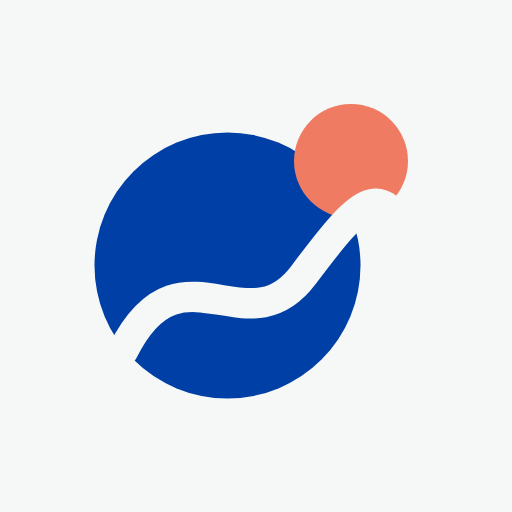
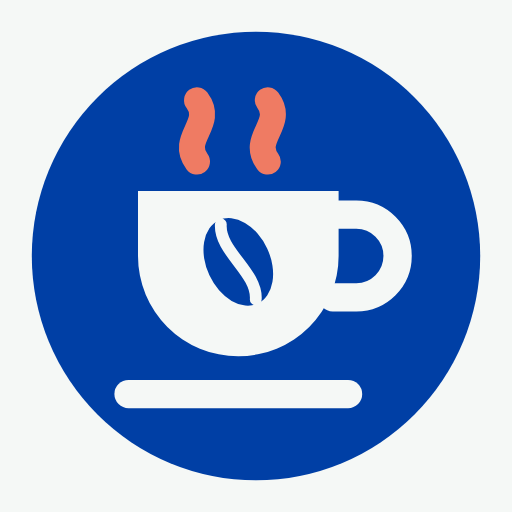
Add files via upload

diff --git a/index.html b/index.html
@@ -157,9 +157,9 @@
 <script src="config.js"></script>
 <script src="https://cdnjs.cloudflare.com/ajax/libs/qrcodejs/1.0.0/qrcode.min.js"></script>
 <script>
-var APP_VERZIA = '3.9';
+var APP_VERZIA = '4.1';
 var API_URL = String(window.KAVOVY_FOND_API_URL || '').trim(); // nastavuje sa v súbore config.js
-var INIT = (function () { var q = new URLSearchParams(location.search); return { token: (q.get('t') || '').replace(/[^A-Za-z0-9]/g, ''), admin: q.has('admin') }; })();
+var INIT = (function () { var q = new URLSearchParams(location.search); return { token: (q.get('t') || '').replace(/[^A-Za-z0-9]/g, ''), admin: q.has('admin'), salka: q.has('salka') }; })();
 var S = { token: '', clen: null, pin: '', admin: null, mesiac: '' };
 
 // ---------- helpers ----------
@@ -202,8 +202,14 @@ function modal(html) { $('modal').innerHTML = html ? '<div class="modal-bg" oncl
 var ART = 0;
 /** Logo: abstraktná značka (modrý kruh, koralový bod, vlnovka). */
 function mark() {
-  return '<svg viewBox="0 0 40 40" aria-hidden="true"><circle cx="17" cy="21" r="14" fill="#003fa5"/><circle cx="30" cy="10" r="6" fill="#ef7b63"/>' +
-    '<path d="M6 30 C12 18 19 30 25 22 S33 12 36 18" fill="none" stroke="#f5f8f6" stroke-width="3.2" stroke-linecap="round"/></svg>';
+  return '<svg viewBox="0 0 40 40" aria-hidden="true">' +
+    '<path d="M14 11 C12 8.5 16 7 14 4" fill="none" stroke="#ef7b63" stroke-width="2.6" stroke-linecap="round"/>' +
+    '<path d="M21 11 C19 8.5 23 7 21 4" fill="none" stroke="#ef7b63" stroke-width="2.6" stroke-linecap="round"/>' +
+    '<path d="M6 14 H29 V21 A11.5 11.5 0 0 1 17.5 32.5 A11.5 11.5 0 0 1 6 21 Z" style="fill:var(--brand)"/>' +
+    '<path d="M29 16.5 H31 A4.5 4.5 0 0 1 31 25.5 H28" fill="none" style="stroke:var(--brand)" stroke-width="3" stroke-linecap="round"/>' +
+    '<rect x="3" y="34" width="29" height="3" rx="1.5" style="fill:var(--fg)"/>' +
+    '<g transform="rotate(-25 17.5 22)"><ellipse cx="17.5" cy="22" rx="3.6" ry="5.2" fill="#f5f8f6"/>' +
+    '<path d="M17.5 17.3 C16 20 19 24 17.5 26.7" fill="none" style="stroke:var(--brand)" stroke-width="1.3" stroke-linecap="round"/></g></svg>';
 }
 /** Abstraktná koláž – zrnitá koralová guľa, navy plocha, modrá vlnovka, kávové zrno, bodky. Variant mení rozloženie. */
 function art(v) {
@@ -318,6 +324,7 @@ function osobnaAdresa(token) {
   } catch (e) {}
 }
 (function start() {
+  if (INIT.salka) return salkaView();
   if (INIT.admin) { S.pin = sload('kf_pin'); return S.pin ? adminLoad() : adminLogin(); }
   var odhlasene = load('kf_odhlasene') || [];
   // odkaz z ikony na ploche s kľúčom, z ktorého sa člen na tomto zariadení odhlásil → neprihlasovať automaticky
@@ -401,13 +408,8 @@ function memberView(msg) {
   }
   // káva
   if (c.aktivny) h += coffeeCard(c.kava);
-  // história
-  if (c.historia.length) {
-    h += '<div class="card"><h2>Mesiace</h2><ul class="list">' + c.historia.slice(0, 12).map(function (m) {
-      var p = m.stav === 'ok' ? '<span class="pill ok">zaplatené</span>' : (m.stav === 'ciastocne' ? '<span class="pill warn">chýba ' + eur(m.chyba) + '</span>' : '<span class="pill bad">nezaplatené</span>');
-      return '<li><span class="grow">' + esc(m.nazov) + '</span><span class="num muted">' + eur(m.predpis) + '</span>' + p + '</li>';
-    }).join('') + '</ul></div>';
-  }
+  // moje mesiace
+  if (c.mesiace && c.mesiace.length) h += mesiaceCard(c);
   if (c.platby.length) {
     h += '<div class="card"><h2>Moje platby</h2><ul class="list">' + c.platby.map(function (p) {
       return '<li><span class="grow">' + esc(p.datum) + '<div class="sub">' + esc(p.poznamka || p.typ) + '</div></span><span class="num">' + eur(p.suma) + '</span></li>';
@@ -455,6 +457,86 @@ function sendMsg() {
     setTimeout(function () { var e = $('spravy'); if (e) e.scrollIntoView(); }, 50);
   }).catch(function (e) { b.disabled = false; b.textContent = 'Odoslať správu'; alertBox(e); });
 }
+// --- mesiace člena: stav, vynechanie ---
+function mesiacStav(m) {
+  if (m.typ === 'zaplatene') return '<span class="pill ok">zaplatené ' + eur(m.suma) + '</span>';
+  if (m.typ === 'ciastocne') return '<span class="pill warn">chýba ' + eur(m.chyba) + '</span>';
+  if (m.typ === 'nezaplatene') return '<span class="pill bad">nezaplatené ' + eur(m.suma) + '</span>';
+  if (m.typ === 'vynechany') return '<span class="pill mut">⏸ vynechaný' + (m.zadal === 'správca' ? ' (správca)' : '') + '</span>';
+  if (m.typ === 'caka') return '<span class="pill mut">pijem · čaká na vyúčtovanie</span>';
+  if (m.typ === 'buduci') return '<span class="pill mut">pijem</span>';
+  return '<span class="sub">neúčtované</span>';
+}
+function mesiaceCard(c) {
+  var teraz = monthKey(new Date());
+  var bud = c.mesiace.filter(function (m) { return m.mesiac >= teraz; }).reverse();
+  var h = '<div class="card" id="mesiace"><h2>Moje mesiace</h2>' +
+    '<p class="tip" style="margin:0 0 6px">Nepiješ niektorý mesiac kávu (dovolenka, stáž…)? Vynechaj ho – za ten mesiac neplatíš. Dá sa to, kým správca nezverejní platbu.</p>' +
+    '<ul class="list">' + bud.map(function (m, i) {
+      var btn = m.mozeMenit && c.aktivny
+        ? '<button class="small ' + (m.vynechany ? '' : 'ghost') + '" onclick="skipMonth(\'' + m.mesiac + '\',' + (!m.vynechany) + ',this)">' + (m.vynechany ? 'Vrátiť' : 'Vynechať') + '</button>' : '';
+      return '<li><span class="grow"><b style="color:var(--fg)">' + esc(m.nazov) + '</b>' + (m.mesiac === teraz ? ' <span class="sub">(tento mesiac)</span>' : '') + '<div style="margin-top:4px">' + mesiacStav(m) + '</div></span>' + btn + '</li>';
+    }).join('') + '</ul>' +
+    '<button class="ghost block" style="margin-top:12px" onclick="historyModal()">Celá história</button></div>';
+  return h;
+}
+function historyList(list, adminMeno) {
+  return '<ul class="list">' + list.map(function (m) {
+    var btn = adminMeno && m.mozeMenit
+      ? '<button class="small ghost" onclick="adminSkip(\'' + m.mesiac + '\',' + (!m.vynechany) + ',this)">' + (m.vynechany ? 'Vrátiť' : 'Vynechať') + '</button>' : '';
+    return '<li><span class="grow" style="color:var(--fg)">' + esc(m.nazov) + '</span>' + mesiacStav(m) + btn + '</li>';
+  }).join('') + '</ul>';
+}
+function historyModal() {
+  var c = S.clen;
+  modal('<h2>Moja história</h2><p class="tip" style="margin-top:0">Prihlásený(á) od ' + esc(c.odDatum) + '. Zostatok: <b style="color:' + (c.zostatok < -0.004 ? 'var(--bad)' : 'var(--fg)') + '">' + (c.zostatok > 0 ? '+' : '') + eur(c.zostatok) + '</b></p>' +
+    '<div style="max-height:56vh;overflow-y:auto">' + historyList(c.mesiace) + '</div>' +
+    '<button class="block" style="margin-top:14px" onclick="modal(\'\')">Zavrieť</button>');
+}
+function skipMonth(mesiac, vynechat, b) {
+  b.disabled = true;
+  api('apiVynechat', S.token, mesiac, vynechat).then(function (c) {
+    S.clen = c; memberView('<div class="msg ok">' + (vynechat ? 'Mesiac je vynechaný – za ten mesiac neplatíš.' : 'Mesiac je vrátený – tento mesiac piješ s nami.') + '</div>');
+    setTimeout(function () { var e = $('mesiace'); if (e) e.scrollIntoView(); }, 50);
+  }).catch(function (e) { b.disabled = false; alertBox(e); });
+}
+
+// --- jednorazová platba za šálku (?salka) ---
+function paymeUrl(iban, suma, sprava, prijemca) {
+  return 'https://payme.sk/?V=1&IBAN=' + encodeURIComponent(iban) + '&AM=' + suma.toFixed(2) + '&CC=EUR&DT=&PI=&MSG=' +
+    encodeURIComponent(sprava).replace(/%20/g, '+') + '&CN=' + encodeURIComponent(prijemca || '').replace(/%20/g, '+');
+}
+function salkaView() {
+  spinner();
+  api('apiVerejne').then(function (d) { S.verejne = d; S.salky = 1; salkaRender(); })
+    .catch(function (e) { render(header('') + errBox(e) + '<button class="ghost block" onclick="salkaView()">Skúsiť znova</button>'); });
+}
+function salkaRender() {
+  var d = S.verejne, n = S.salky, suma = Math.round(d.cena * n * 100) / 100;
+  var link = paymeUrl(d.iban, suma, 'Kava ' + n + 'x salka', d.prijemca);
+  var iban = d.iban.replace(/(.{4})/g, '$1 ').trim();
+  render(header('', 'Ústav molekulárnej biomedicíny LF UK') +
+    '<div class="card hero"><div class="art">' + art('pay') + '</div>' +
+    '<span class="pill mut">Jednorazová platba · one-time payment</span>' +
+    '<h2 style="margin:12px 0 0;font-size:20px">Šálka kávy · Cup of coffee</h2>' +
+    '<div class="amount">' + eur(suma) + '</div>' +
+    '<div class="sub" style="margin-bottom:16px">' + eur(d.cena) + ' za šálku / per cup</div>' +
+    '<div class="row" style="justify-content:center;margin-bottom:18px">' +
+      '<button class="ghost" style="width:52px;padding:0" aria-label="Menej šálok" onclick="salkaZmen(-1)">−</button>' +
+      '<b style="min-width:110px;font-size:18px;color:var(--fg)">' + n + ' ' + (n === 1 ? 'šálka' : (n < 5 ? 'šálky' : 'šálok')) + '</b>' +
+      '<button class="ghost" style="width:52px;padding:0" aria-label="Viac šálok" onclick="salkaZmen(1)">+</button></div>' +
+    '<a class="btn block" href="' + esc(link) + '" target="_blank" rel="noopener">Zaplatiť cez PayMe · Pay</a>' +
+    '<div id="qr"></div>' +
+    '<div style="text-align:left;margin-top:14px">' + kv('IBAN', iban, d.iban) + kv('Suma', eur(suma), suma.toFixed(2)) + kv('Príjemca', d.prijemca, d.prijemca) + '</div>' +
+    '</div>' +
+    '<div class="card stack"><h2>Piješ kávu pravidelne?</h2>' +
+    '<p class="tip" style="margin:0">Pridaj sa do kávového fondu – raz mesačne zaplatíš podiel a piješ, koľko chceš. / Drink coffee often? Join the coffee fund.</p>' +
+    '<a class="btn ghost block" href="' + esc(d.web) + '">Pridať sa do fondu</a></div>' +
+    '<footer>Kávový fond IMBM · ' + esc(d.spravca) + '</footer>');
+  if (window.QRCode && $('qr')) { try { new QRCode($('qr'), { text: link, width: 132, height: 132, correctLevel: QRCode.CorrectLevel.M }); $('qr').classList.add('on'); } catch (e) {} }
+}
+function salkaZmen(k) { S.salky = Math.max(1, Math.min(20, S.salky + k)); salkaRender(); }
+
 // --- odhlásenie z účtu na tomto zariadení (členstvo vo fonde ostáva) ---
 function askLogout() {
   modal('<h2>Odhlásiť sa z účtu?</h2>' +
@@ -634,9 +716,9 @@ function adminView(d, msg) {
   // --- Členovia ---
   h += '<div class="card"><h2>Členovia (' + aktivni.length + ' prihlásených)</h2><div class="tablewrap"><table><tr><th>Meno</th><th>' + esc(d.nazovMesiaca) + '</th><th>Zostatok</th><th>Posledná platba</th><th></th></tr>' +
     d.clenovia.map(function (c, i) {
-      var st = c.mesiacStav === 'ok' ? '<span class="pill ok">✓</span>' : (c.mesiacStav === 'nie' ? '<span class="pill bad">✗</span>' : (c.mesiacStav === 'ciastocne' ? '<span class="pill warn">čiast.</span>' : '<span class="muted">–</span>'));
+      var st = c.vynechany ? '<span class="pill mut">⏸</span>' : c.mesiacStav === 'ok' ? '<span class="pill ok">✓</span>' : (c.mesiacStav === 'nie' ? '<span class="pill bad">✗</span>' : (c.mesiacStav === 'ciastocne' ? '<span class="pill warn">čiast.</span>' : '<span class="muted">–</span>'));
       var z = c.zostatok;
-      return '<tr' + (c.aktivny ? '' : ' style="opacity:.55"') + '><td>' + esc(c.meno) + '<div class="sub">' + esc(c.email) + (c.aktivny ? '' : ' · odhlásený ' + esc(c.odhlaseny)) + '</div></td>' +
+      return '<tr' + (c.aktivny ? '' : ' style="opacity:.55"') + '><td><button class="link" style="font-weight:600;color:var(--fg);text-decoration:none;text-align:left" onclick="openMember(' + i + ')">' + esc(c.meno) + ' ›</button><div class="sub">' + esc(c.email) + (c.aktivny ? '' : ' · odhlásený ' + esc(c.odhlaseny)) + '</div></td>' +
         '<td>' + st + '</td><td class="num" style="color:' + (z < -0.004 ? 'var(--bad)' : (z > 0.004 ? 'var(--ok)' : 'inherit')) + '">' + (z > 0 ? '+' : '') + eur(z) + '</td>' +
         '<td class="sub">' + esc(c.posledna) + '</td>' +
         '<td style="white-space:nowrap"><button class="small ghost" onclick="manualPay(' + i + ')">+ platba</button> ' +
@@ -700,6 +782,7 @@ function adminView(d, msg) {
       f('KAVA_DOPRAVA', 'Doprava kávy €', { num: true }) +
       f('MLIEKO_LITRE', 'Mlieko – litre mesačne', { num: true }) + f('MLIEKO_CENA_L', 'Cena mlieka za liter €', { num: true }) +
       f('MLIEKO_KDE', 'Kde sa objednáva mlieko', { wide: true, ph: 'napr. odkaz na e-shop' }) +
+      f('CENA_SALKA', 'Cena jednej šálky € (pre ľudí mimo fondu)', { num: true }) +
       '<h3>Kalendár (deň v mesiaci)</h3>' +
       f('DEN_OBJEDNAVKY', 'Objednávka', { num: true }) +
       f('DEN_VYUCTOVANIA', 'Pripomenúť zverejnenie platby od', { num: true }) +
@@ -710,7 +793,8 @@ function adminView(d, msg) {
   h += '<div class="grid2"><div class="card stack"><h2>Pozvať do fondu</h2>' +
     '<p class="tip" style="margin:0">Aplikácia neposiela žiadne maily. Skopírujte text pozvánky (aj s odkazom na prihlásenie) a pošlite ho sami – do mailing listu, skupiny alebo správou. Kto sa prihlási, objaví sa v zozname členov.</p>' +
     '<button class="block" id="p-btn" onclick="invite(this)">Kopírovať text pozvánky</button>' +
-    '<button class="ghost block" onclick="copyText(S.admin.appUrl,this)">Kopírovať len odkaz na prihlásenie</button></div>';
+    '<button class="ghost block" onclick="copyText(S.admin.appUrl,this)">Kopírovať len odkaz na prihlásenie</button>' +
+    '<button class="ghost block" onclick="copyText(S.admin.appUrl + \'?salka\',this)">Kopírovať odkaz na platbu za šálku</button></div>';
   h += '<div class="card stack"><h2>Odkazy</h2>' +
     '<div class="kv"><span class="k">Prihlásenie</span><span class="v">' + esc(d.appUrl) + '</span><button class="copy" onclick="copyText(S.admin.appUrl,this)">Kopírovať</button></div>' +
     '<div class="tip">Tento odkaz môžete poslať aj do skupiny – každý sa prihlási sám.</div>' +
@@ -733,7 +817,7 @@ function publish() {
     adminView(r.data, '<div class="msg ok">Zverejnené: ' + eur(r.podiel) + ' × ' + r.pocet + ' členov. Platba sa im zobrazí, keď si otvoria aplikáciu.</div>');
   }).catch(function (e) { b.disabled = false; alertBox(e); });
 }
-var SETTINGS_KEYS = ['SPRAVCA_MENO','SPRAVCA_EMAIL','SPRAVCA_PODPIS','IBAN','PRIJEMCA','KAVA_KG','KAVA_CENA_KG','KAVA_DOPRAVA','MLIEKO_LITRE','MLIEKO_CENA_L','MLIEKO_KDE','DEN_OBJEDNAVKY','DEN_VYUCTOVANIA'];
+var SETTINGS_KEYS = ['SPRAVCA_MENO','SPRAVCA_EMAIL','SPRAVCA_PODPIS','IBAN','PRIJEMCA','KAVA_KG','KAVA_CENA_KG','KAVA_DOPRAVA','MLIEKO_LITRE','MLIEKO_CENA_L','MLIEKO_KDE','CENA_SALKA','DEN_OBJEDNAVKY','DEN_VYUCTOVANIA'];
 function saveSettings() {
   var b = $('s-btn'), data = {};
   SETTINGS_KEYS.forEach(function (k) { if ($('s-' + k)) data[k] = $('s-' + k).value; });
@@ -821,6 +905,26 @@ function sendBulk() {
     S.bulk = {}; S.bulkText = ''; modal('');
     adminView(r.data, '<div class="msg ok">Správa odoslaná ' + r.pocet + ' členom. Uvidia ju vo svojej aplikácii.</div>');
   }).catch(function (e) { b.disabled = false; bulkCount(); alertBox(e); });
+}
+// --- detail člena (správca): história a vynechanie mesiacov ---
+function openMember(i) {
+  S.detailMeno = S.admin.clenovia[i].meno;
+  modal('<h2>' + esc(S.detailMeno) + '</h2><div class="spinner" style="margin:30px auto"></div>');
+  api('apiAdminClenDetail', S.pin, S.detailMeno).then(memberDetail).catch(alertBox);
+}
+function memberDetail(d) {
+  modal('<h2>' + esc(d.meno) + '</h2>' +
+    '<p class="tip" style="margin-top:0">' + esc(d.email) + ' · ' + (d.aktivny ? 'prihlásený od ' + esc(d.od) : 'odhlásený') +
+    ' · zostatok <b style="color:' + (d.zostatok < -0.004 ? 'var(--bad)' : 'var(--fg)') + '">' + (d.zostatok > 0 ? '+' : '') + eur(d.zostatok) + '</b></p>' +
+    '<p class="tip">Vynechať môžete ľubovoľný mesiac. Ak je platba za mesiac už zverejnená, členovi sa zruší; podiel ostatných sa zmení, až keď platbu zverejníte znova.</p>' +
+    '<div style="max-height:52vh;overflow-y:auto">' + historyList(d.mesiace, d.meno) + '</div>' +
+    '<button class="block" style="margin-top:14px" onclick="modal(\'\');adminLoad()">Zavrieť</button>');
+}
+function adminSkip(mesiac, vynechat, b) {
+  b.disabled = true;
+  api('apiAdminVynechat', S.pin, S.detailMeno, mesiac, vynechat, S.mesiac).then(function (r) {
+    S.admin = r.data; memberDetail(r.detail);
+  }).catch(function (e) { b.disabled = false; alertBox(e); });
 }
 function openThread(meno) {
   S.vlakno = meno;
